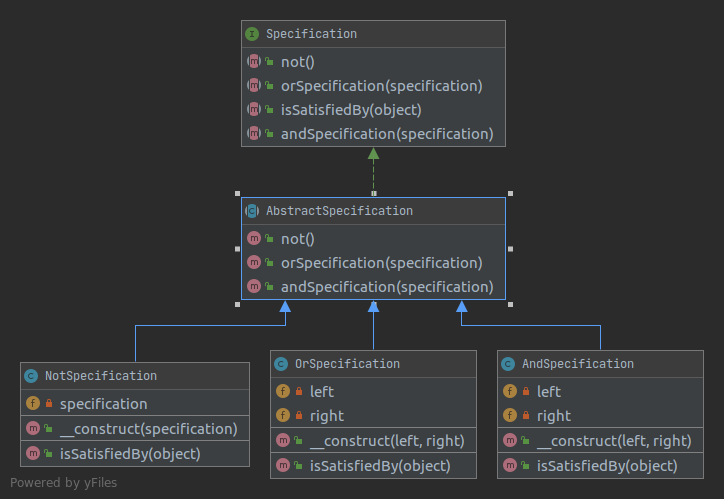
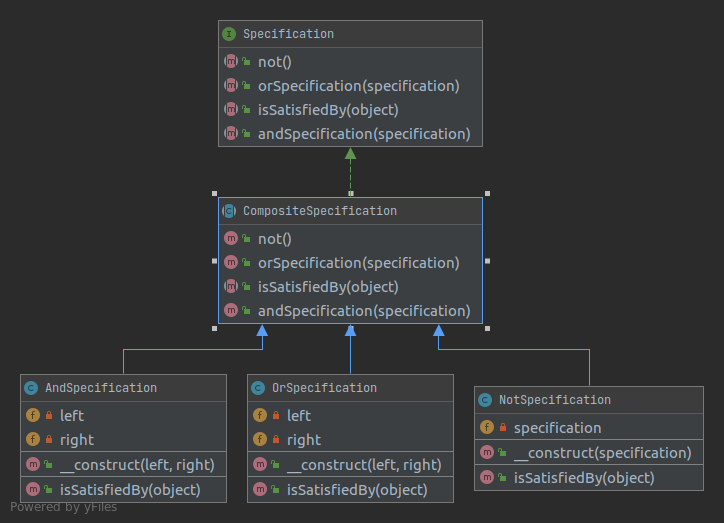
Ajustes aplicados em algumas classes. Alterando namespace das classes.

diff --git a/examples/cash-out.php b/examples/cash-out.php
@@ -2,7 +2,7 @@
 
 require __DIR__ . '../vendor/autoload.php';
 
-use Moguzz\AbstractSpecification;
+use RicardoKovalski\CompositeSpecification;
 
 class CashOut
 {
@@ -22,27 +22,27 @@ class CashOut
     }
 }
 
-class PendingCashOutSpecification extends AbstractSpecification
+class PendingCashOutSpecification extends CompositeSpecification
 {
-    public function isSatisfiedBy($cashOut)
+    public function isSatisfiedBy($object)
     {
-        return $cashOut->isPending();
+        return $object->isPending();
     }
 }
 
-class PaidCashOutSpecification extends AbstractSpecification
+class PaidCashOutSpecification extends CompositeSpecification
 {
-    public function isSatisfiedBy($cashOut)
+    public function isSatisfiedBy($object)
     {
-        return $cashOut->isPaid();
+        return $object->isPaid();
     }
 }
 
-class RefusedCashOutSpecification extends AbstractSpecification
+class RefusedCashOutSpecification extends CompositeSpecification
 {
-    public function isSatisfiedBy($cashOut)
+    public function isSatisfiedBy($object)
     {
-        return $cashOut->isRefused();
+        return $object->isRefused();
     }
 }
 

diff --git a/examples/order.php b/examples/order.php
@@ -2,7 +2,7 @@
 
 require __DIR__ . '../vendor/autoload.php';
 
-use Moguzz\AbstractSpecification;
+use RicardoKovalski\CompositeSpecification;
 
 class Order
 {
@@ -22,27 +22,27 @@ class Order
     }
 }
 
-class UnshippedOrderSpecification extends AbstractSpecification
+class UnshippedOrderSpecification extends CompositeSpecification
 {
-    public function isSatisfiedBy($order)
+    public function isSatisfiedBy($object)
     {
-        return ! $order->isShipped();
+        return ! $object->isShipped();
     }
 }
 
-class PaidOrderSpecification extends AbstractSpecification
+class PaidOrderSpecification extends CompositeSpecification
 {
-    public function isSatisfiedBy($order)
+    public function isSatisfiedBy($object)
     {
-        return $order->isPaid();
+        return $object->isPaid();
     }
 }
 
-class CancelledOrderSpecification extends AbstractSpecification
+class CancelledOrderSpecification extends CompositeSpecification
 {
-    public function isSatisfiedBy($order)
+    public function isSatisfiedBy($object)
     {
-        return $order->isCancelled();
+        return $object->isCancelled();
     }
 }
 

diff --git a/src/CompositeSpecification.php b/src/CompositeSpecification.php
@@ -1,0 +1,48 @@
+<?php
+
+namespace RicardoKovalski;
+
+use RicardoKovalski\Contract\Specification;
+use RicardoKovalski\Operators\AndSpecification;
+use RicardoKovalski\Operators\NotSpecification;
+use RicardoKovalski\Operators\OrSpecification;
+
+/**
+ * Class CompositeSpecification
+ *
+ * @package RicardoKovalski
+ */
+abstract class CompositeSpecification implements Specification
+{
+    /**
+     * @param $object
+     * @return mixed
+     */
+    public abstract function isSatisfiedBy($object);
+
+    /**
+     * @param Specification $specification
+     * @return AndSpecification
+     */
+    public function andSpecification(Specification $specification)
+    {
+        return new AndSpecification($this, $specification);
+    }
+
+    /**
+     * @param Specification $specification
+     * @return OrSpecification
+     */
+    public function orSpecification(Specification $specification)
+    {
+        return new OrSpecification($this, $specification);
+    }
+
+    /**
+     * @return NotSpecification
+     */
+    public function not()
+    {
+        return new NotSpecification($this);
+    }
+}

diff --git a/src/Operators/OrSpecification.php b/src/Operators/OrSpecification.php
@@ -1,16 +1,16 @@
 <?php
 
-namespace Moguzz\Operators;
+namespace RicardoKovalski\Operators;
 
-use Moguzz\AbstractSpecification;
-use Moguzz\Contract\Specification;
+use RicardoKovalski\CompositeSpecification;
+use RicardoKovalski\Contract\Specification;
 
 /**
  * Class OrSpecification
  *
- * @package Moguzz\Operators
+ * @package RicardoKovalski\Operators
  */
-class OrSpecification extends AbstractSpecification
+class OrSpecification extends CompositeSpecification
 {
     /**
      * @var Specification $left
@@ -23,13 +23,15 @@ class OrSpecification extends AbstractSpecification
     private $right;
 
     /**
+     * OrSpecification constructor.
+     *
      * @param Specification $left
      * @param Specification $right
      */
     public function __construct(Specification $left, Specification $right)
     {
         $this->left = $left;
-        $this->right   = $right;
+        $this->right = $right;
     }
 
     /**

diff --git a/src/Operators/AndSpecification.php b/src/Operators/AndSpecification.php
@@ -1,16 +1,16 @@
 <?php
 
-namespace Moguzz\Operators;
+namespace RicardoKovalski\Operators;
 
-use Moguzz\AbstractSpecification;
-use Moguzz\Contract\Specification;
+use RicardoKovalski\CompositeSpecification;
+use RicardoKovalski\Contract\Specification;
 
 /**
  * Class AndSpecification
  *
- * @package Moguzz\Operators
+ * @package RicardoKovalski\Operators
  */
-class AndSpecification extends AbstractSpecification
+class AndSpecification extends CompositeSpecification
 {
     /**
      * @var Specification $left
@@ -31,12 +31,12 @@ class AndSpecification extends AbstractSpecification
     public function __construct(Specification $left, Specification $right)
     {
         $this->left = $left;
-        $this->right   = $right;
+        $this->right = $right;
     }
 
     /**
      * @param $object
-     * @return bool|mixed
+     * @return bool
      */
     public function isSatisfiedBy($object)
     {

diff --git a/src/Operators/NotSpecification.php b/src/Operators/NotSpecification.php
@@ -1,16 +1,16 @@
 <?php
 
-namespace Moguzz\Operators;
+namespace RicardoKovalski\Operators;
 
-use Moguzz\AbstractSpecification;
-use Moguzz\Contract\Specification;
+use RicardoKovalski\CompositeSpecification;
+use RicardoKovalski\Contract\Specification;
 
 /**
  * Class NotSpecification
  *
- * @package Moguzz\Operators
+ * @package RicardoKovalski\Operators
  */
-class NotSpecification extends AbstractSpecification
+class NotSpecification extends CompositeSpecification
 {
     /**
      * @var Specification $specification
@@ -18,6 +18,8 @@ class NotSpecification extends AbstractSpecification
     private $specification;
 
     /**
+     * NotSpecification constructor.
+     *
      * @param Specification $specification
      */
     public function __construct(Specification $specification)

diff --git a/src/Contract/Specification.php b/src/Contract/Specification.php
@@ -1,11 +1,11 @@
 <?php
 
-namespace Moguzz\Contract;
+namespace RicardoKovalski\Contract;
 
 /**
  * Interface Specification
  *
- * @package Moguzz\Contract
+ * @package RicardoKovalski\Contract
  */
 interface Specification
 {
@@ -17,18 +17,18 @@ interface Specification
 
     /**
      * @param Specification $specification
-     * @return Specification
+     * @return mixed
      */
     public function andSpecification(Specification $specification);
 
     /**
      * @param Specification $specification
-     * @return Specification
+     * @return mixed
      */
     public function orSpecification(Specification $specification);
 
     /**
-     * @return Specification
+     * @return mixed
      */
     public function not();
 }

diff --git a/tests/SpecificationTest.php b/tests/SpecificationTest.php
@@ -39,7 +39,7 @@ class SpecificationTest extends \PHPUnit_Framework_TestCase
     }
 }
 
-class BoolSpecification extends \Moguzz\AbstractSpecification
+class BoolSpecification extends \RicardoKovalski\CompositeSpecification
 {
     private $bool;
 
